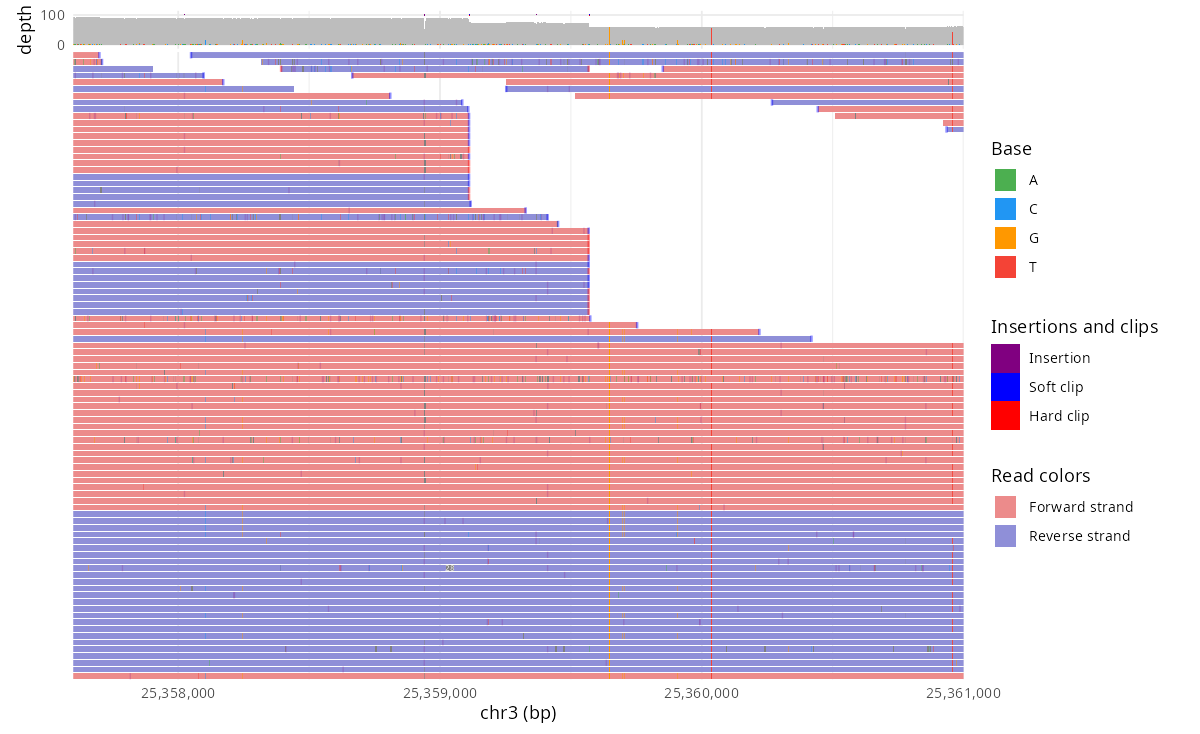
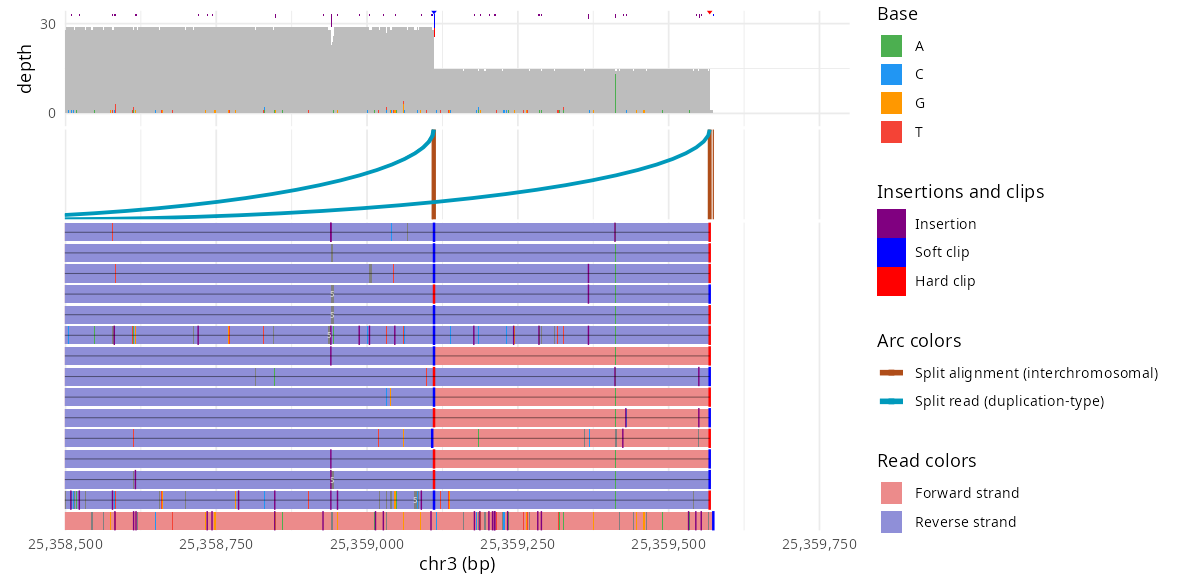
COLO829 der(3) figure shows its split reads chained across the two chr3 breakpoints, with arcs
The wide window over every read showed only clipped ends. Filtering to split
reads under unit = "chain" draws each read's pieces on one row and the arcs
to chr10 and chr12.

diff --git a/README.md b/README.md
@@ -52,12 +52,13 @@ bases and insertion lengths are written out.
 
 ```r
 l <- jbrowse_alignments(e("colo829_tumor_chr3.bam"),
-  "chr3:25,357,600-25,361,000",
-  display = list(color = list(field = "strand")))
+  "chr3:25,358,500-25,359,800",
+  display = list(unit = "chain", readConnections = "arc",
+    color = list(field = "strand"), filter = list(split = "only")))
 autoplot(l)
 ```
 
-![COLO829 nanopore reads over two chr3 breakpoints: reads clipped where the tumor chromosome continues on chr12 and chr10](man/figures/long-reads.png)
+![COLO829 nanopore split reads chained across two chr3 breakpoints, each arc ending where the read continues on chr10 or chr12](man/figures/long-reads.png)
 
 ```r
 d <- jbrowse_alignments(e("hg008t_cuzd1_deletion.bam"),
@@ -477,8 +478,8 @@ autoplot(m)
 <tr><td width="50%"><img src="gallery/sashimi-jbrowse.webp" alt="Splice junctions over direct RNA reads in JBrowse" width="100%"></td><td width="50%"><img src="gallery/sashimi-r.webp" alt="Splice junctions over direct RNA reads drawn by ggjbrowse" width="100%"></td></tr>
 <tr><td colspan="2"><b>COLO829 long reads split into forward and reverse strand sections</b> <code>chr3:25,357,600-25,361,000</code></td></tr>
 <tr><td width="50%"><img src="gallery/strand_sections-jbrowse.webp" alt="COLO829 long reads split into forward and reverse strand sections in JBrowse" width="100%"></td><td width="50%"><img src="gallery/strand_sections-r.webp" alt="COLO829 long reads split into forward and reverse strand sections drawn by ggjbrowse" width="100%"></td></tr>
-<tr><td colspan="2"><b>Long reads colored by strand across two breakpoints of the COLO829 der(3)</b> <code>chr3:25,357,600-25,361,000</code></td></tr>
-<tr><td width="50%"><img src="gallery/long_reads_sv-jbrowse.webp" alt="Long reads colored by strand across two breakpoints of the COLO829 der(3) in JBrowse" width="100%"></td><td width="50%"><img src="gallery/long_reads_sv-r.webp" alt="Long reads colored by strand across two breakpoints of the COLO829 der(3) drawn by ggjbrowse" width="100%"></td></tr>
+<tr><td colspan="2"><b>COLO829 der(3) split reads chained across its two chr3 breakpoints</b> <code>chr3:25,358,500-25,359,800</code></td></tr>
+<tr><td width="50%"><img src="gallery/long_reads_sv-jbrowse.webp" alt="COLO829 der(3) split reads chained across its two chr3 breakpoints in JBrowse" width="100%"></td><td width="50%"><img src="gallery/long_reads_sv-r.webp" alt="COLO829 der(3) split reads chained across its two chr3 breakpoints drawn by ggjbrowse" width="100%"></td></tr>
 <tr><td colspan="2"><b>Reads sorted by the base at the center, over a somatic deletion</b> <code>chr10:122,831,700-122,840,800</code></td></tr>
 <tr><td width="50%"><img src="gallery/deletion-jbrowse.webp" alt="Reads sorted by the base at the center, over a somatic deletion in JBrowse" width="100%"></td><td width="50%"><img src="gallery/deletion-r.webp" alt="Reads sorted by the base at the center, over a somatic deletion drawn by ggjbrowse" width="100%"></td></tr>
 <tr><td colspan="2"><b>Compact reads over the same deletion</b> <code>chr10:122,831,700-122,840,800</code></td></tr>
